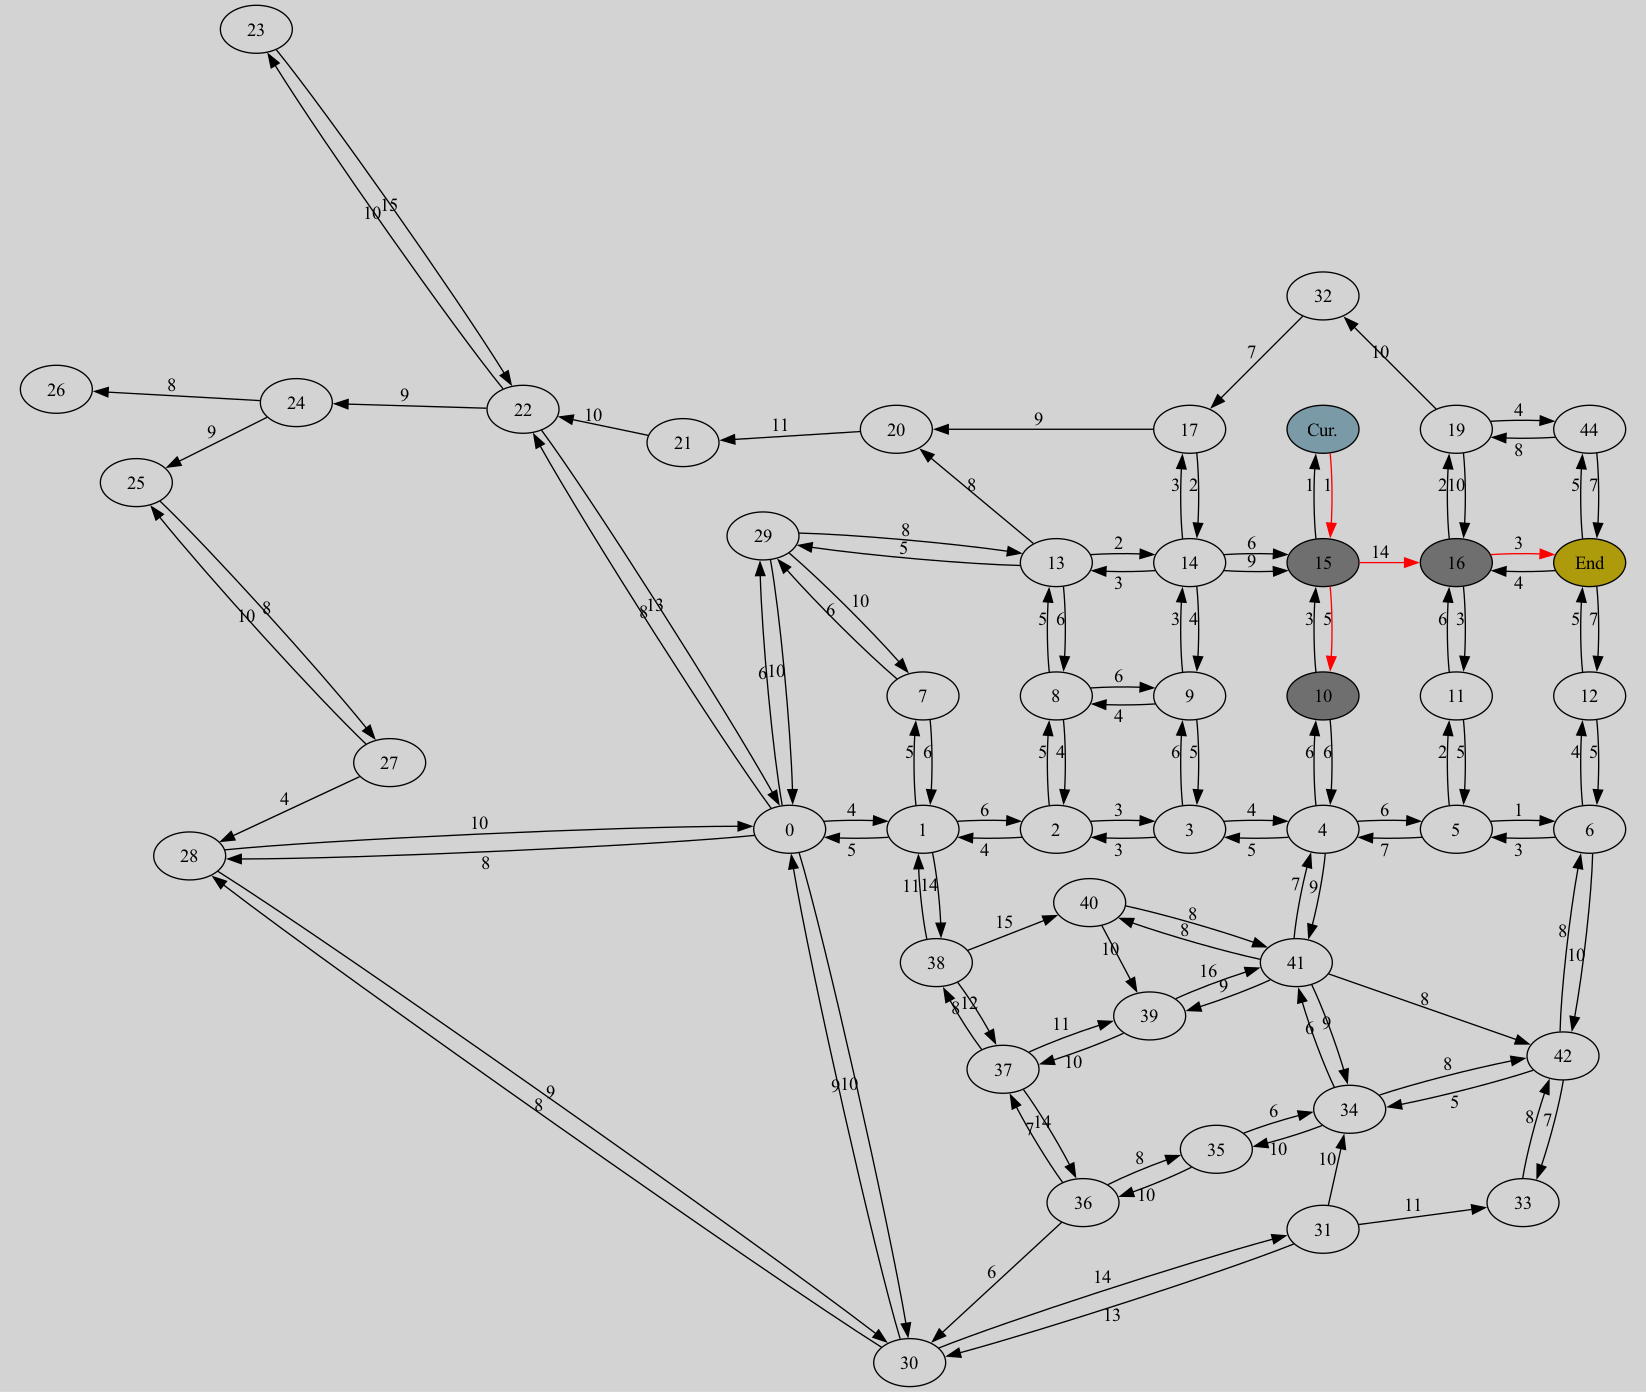
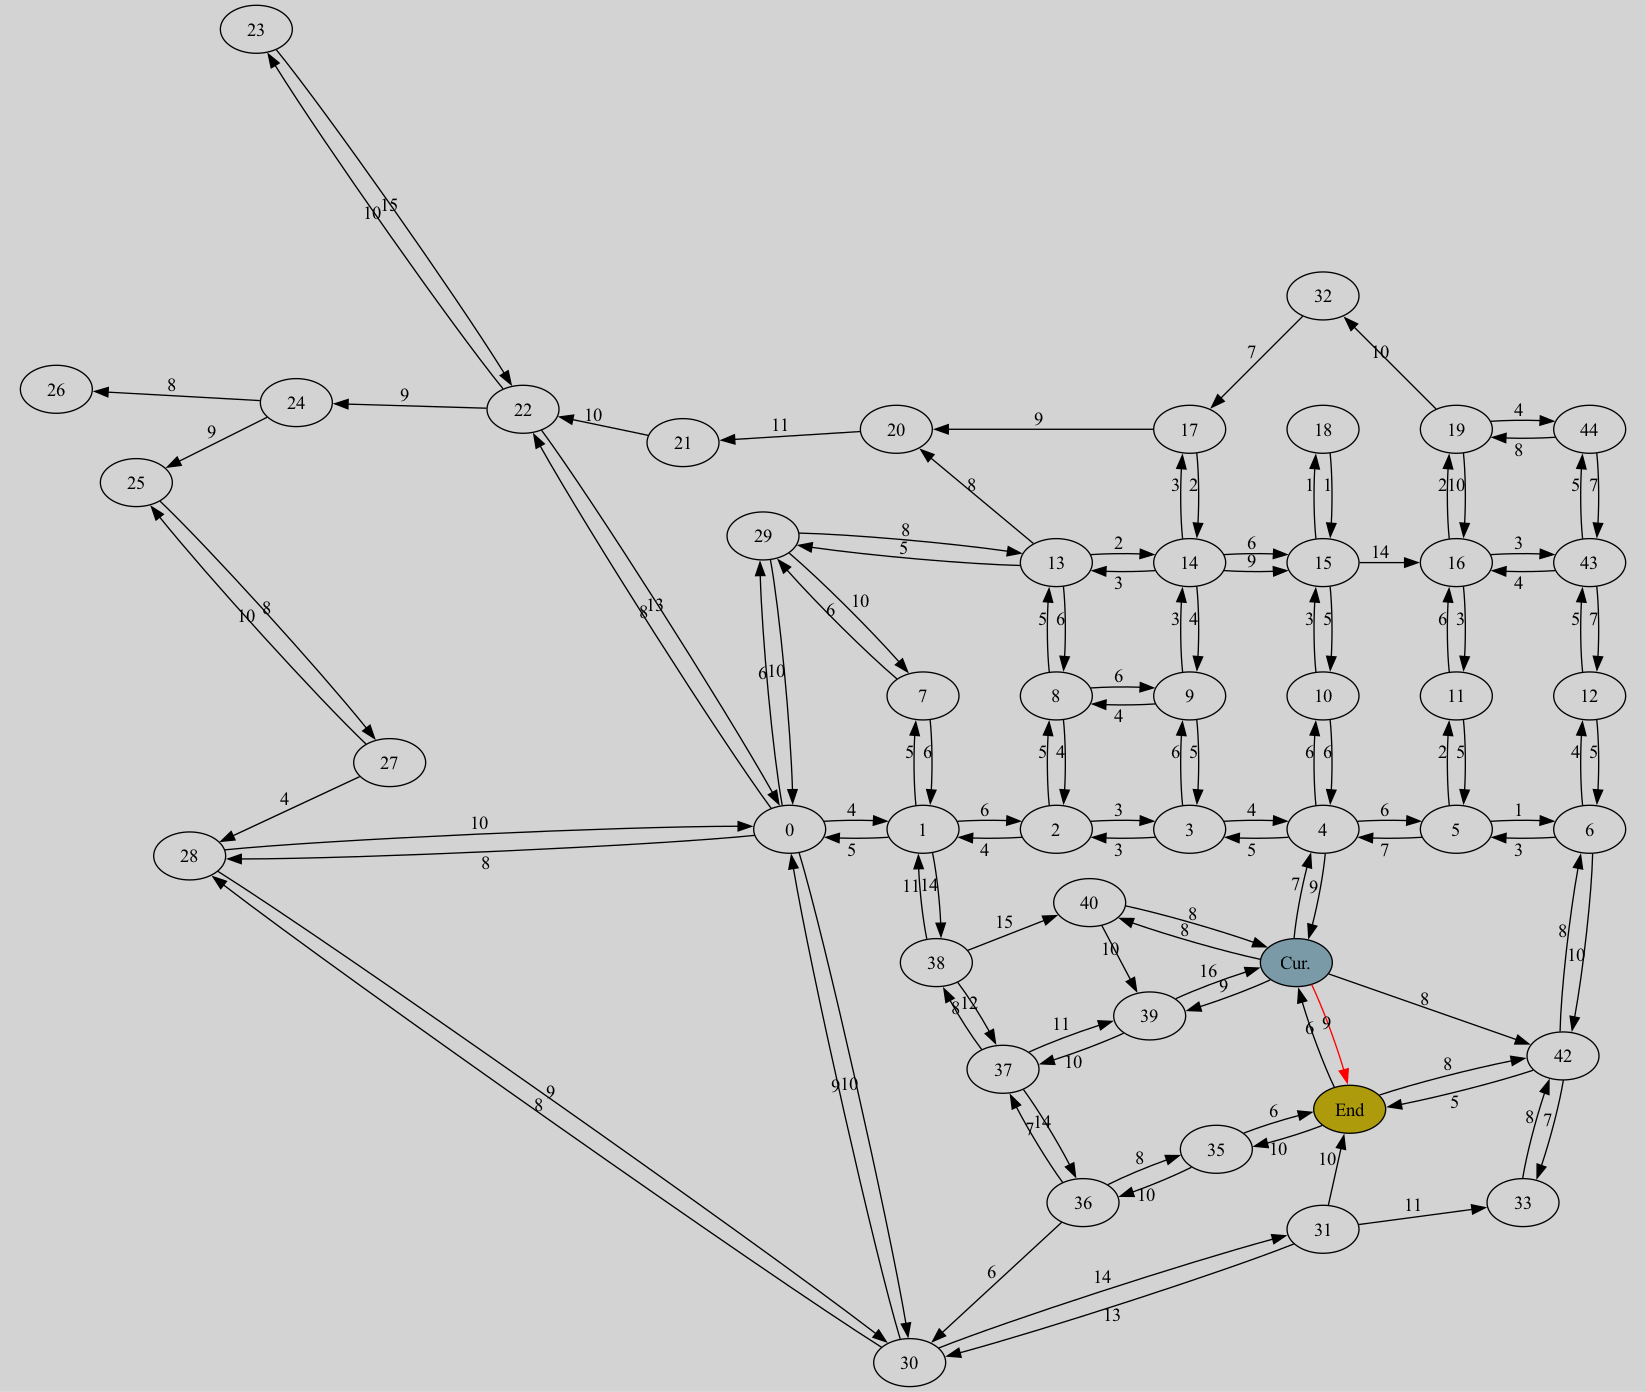
Add skeleton for Graph Neural Network

diff --git a/src/GNN.cpp b/src/GNN.cpp
@@ -1,0 +1,37 @@
+#include "GNN.hpp"
+
+GNN::GNN() {}
+
+GNN::GNN(Graph G) {}
+
+void GNN::train() { // Try with single instance input for each iteration
+
+
+    // Loop begins, for n iterations:
+
+        // Input vertices from Graph G into the input_vertices matrix (perhaps just two input vertices, the beginning and the end?)
+
+        // Weight and bias matrix multiplication from each perceptron and activation function, then feeds to the ouptut stage.
+
+        // Calculate the Dijkstra actual path and put in a cost matrix by entering in the weights
+
+        // Calculate result with cost function matrix by subtracting from the weight matrix chosen by the model
+
+        // Perform the rest of back prop according with the sheet I wrote
+
+        // Update the parameters
+
+        // Repeat loop ~
+
+    // Return;
+
+}
+
+// Possibly change return type later
+std::vector<Edge> GNN::predict(Vertex start, Vertex end) { 
+
+    // Perform forward prop from above
+
+    // Return prediction vector (or other way of showing the path taken);
+
+}

diff --git a/src/DeltaField.cpp b/src/DeltaField.cpp
@@ -5,9 +5,7 @@
 #include "../test/utils.cpp" 
 
 
-DeltaField::DeltaField(Graph Graph_Input) : G(Graph_Input) {
-
-}
+DeltaField::DeltaField(Graph Graph_Input) : G(Graph_Input) {}
 
 int DeltaField::activate_A_Star() {
 
@@ -47,10 +45,7 @@ int DeltaField::activate_A_Star() {
         // change_weights(); // Adds some random traffic complications
     }
     
-    // TODO: Add more to the map. Then add random effects to some roads to throw off the algorithm.
-    // TODO: Fix ../test/utils file path stuff. Make it cleaner.
-    // TODO: Simplify Everything and make it cleaner and more efficient.
-    // TODO: Implement Neural Network
+    
 
     std::cout << "Done with the Delta Field!" << std::endl;
 

diff --git a/src/GNN.hpp b/src/GNN.hpp
@@ -1,0 +1,22 @@
+#pragma once
+
+#include "Graph.cpp"
+
+class GNN {
+    private:
+        Graph G;
+        int* input_layer; // Move to using  my matrix class with arrays
+        int* perceptron_layer; // ~
+        int* output_layer; // ~
+    
+    public:
+
+        GNN();
+        GNN(Graph G);
+
+        // add some intermediate functions and possibly classes; don't just do a huge function
+
+        void train();
+        std::vector<Edge> predict(Vertex start, Vertex end);
+
+};

diff --git a/test/test_runner.cpp b/test/test_runner.cpp
@@ -3,9 +3,15 @@
 // #include "Graph.cpp"
 // #include "utils.cpp"
 #include "DeltaField.cpp"
+// #include "GNN.cpp"
 
 
 void run_all_tests() {
+
+    // TODO: Fix ../test/utils file path stuff. Make it cleaner.
+    // TODO: Simplify Everything and make it cleaner and more efficient.
+    // TODO: Implement the Graph Neural Network
+
     Graph G;
     Vertex begin, end;
     std::string file_path;

diff --git a/src/DeltaField.hpp b/src/DeltaField.hpp
@@ -1,7 +1,6 @@
 #pragma once
 
-// #include "DeltaField.hpp"
-#include "Graph.cpp"
+#include "GNN.cpp"
 
 class DeltaField {
     private:
